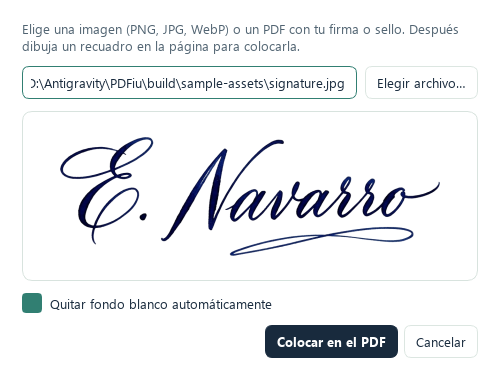
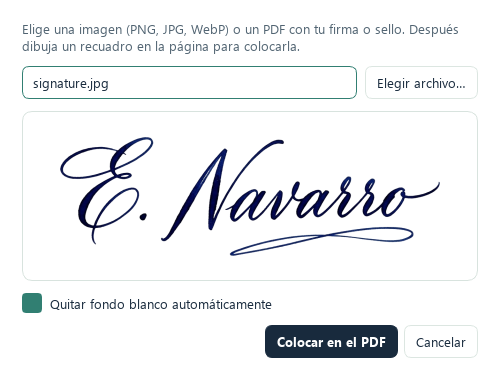
Show filename only in VisualSignatureDialog and refresh slides

Changed region(s): [[0.06, 0.2048, 0.69, 0.2633]]

diff --git a/pdfiu_dialogs.py b/pdfiu_dialogs.py
@@ -1444,7 +1444,8 @@ class VisualSignatureDialog(QDialog):
 
         file_row = QHBoxLayout()
         file_row.setSpacing(8)
-        self.path_field = QLineEdit(self.stamp_path)
+        self.path_field = QLineEdit(Path(self.stamp_path).name if self.stamp_path else "")
+        self.path_field.setToolTip(self.stamp_path)
         self.path_field.setReadOnly(True)
         self.path_field.setPlaceholderText(tr("Ningún archivo seleccionado…"))
         choose_btn = QPushButton(tr("Elegir archivo…"))
@@ -1488,7 +1489,8 @@ class VisualSignatureDialog(QDialog):
         )
         if chosen:
             self.stamp_path = chosen
-            self.path_field.setText(chosen)
+            self.path_field.setText(Path(chosen).name)
+            self.path_field.setToolTip(chosen)
             self.refresh_preview()
 
     def refresh_preview(self):
